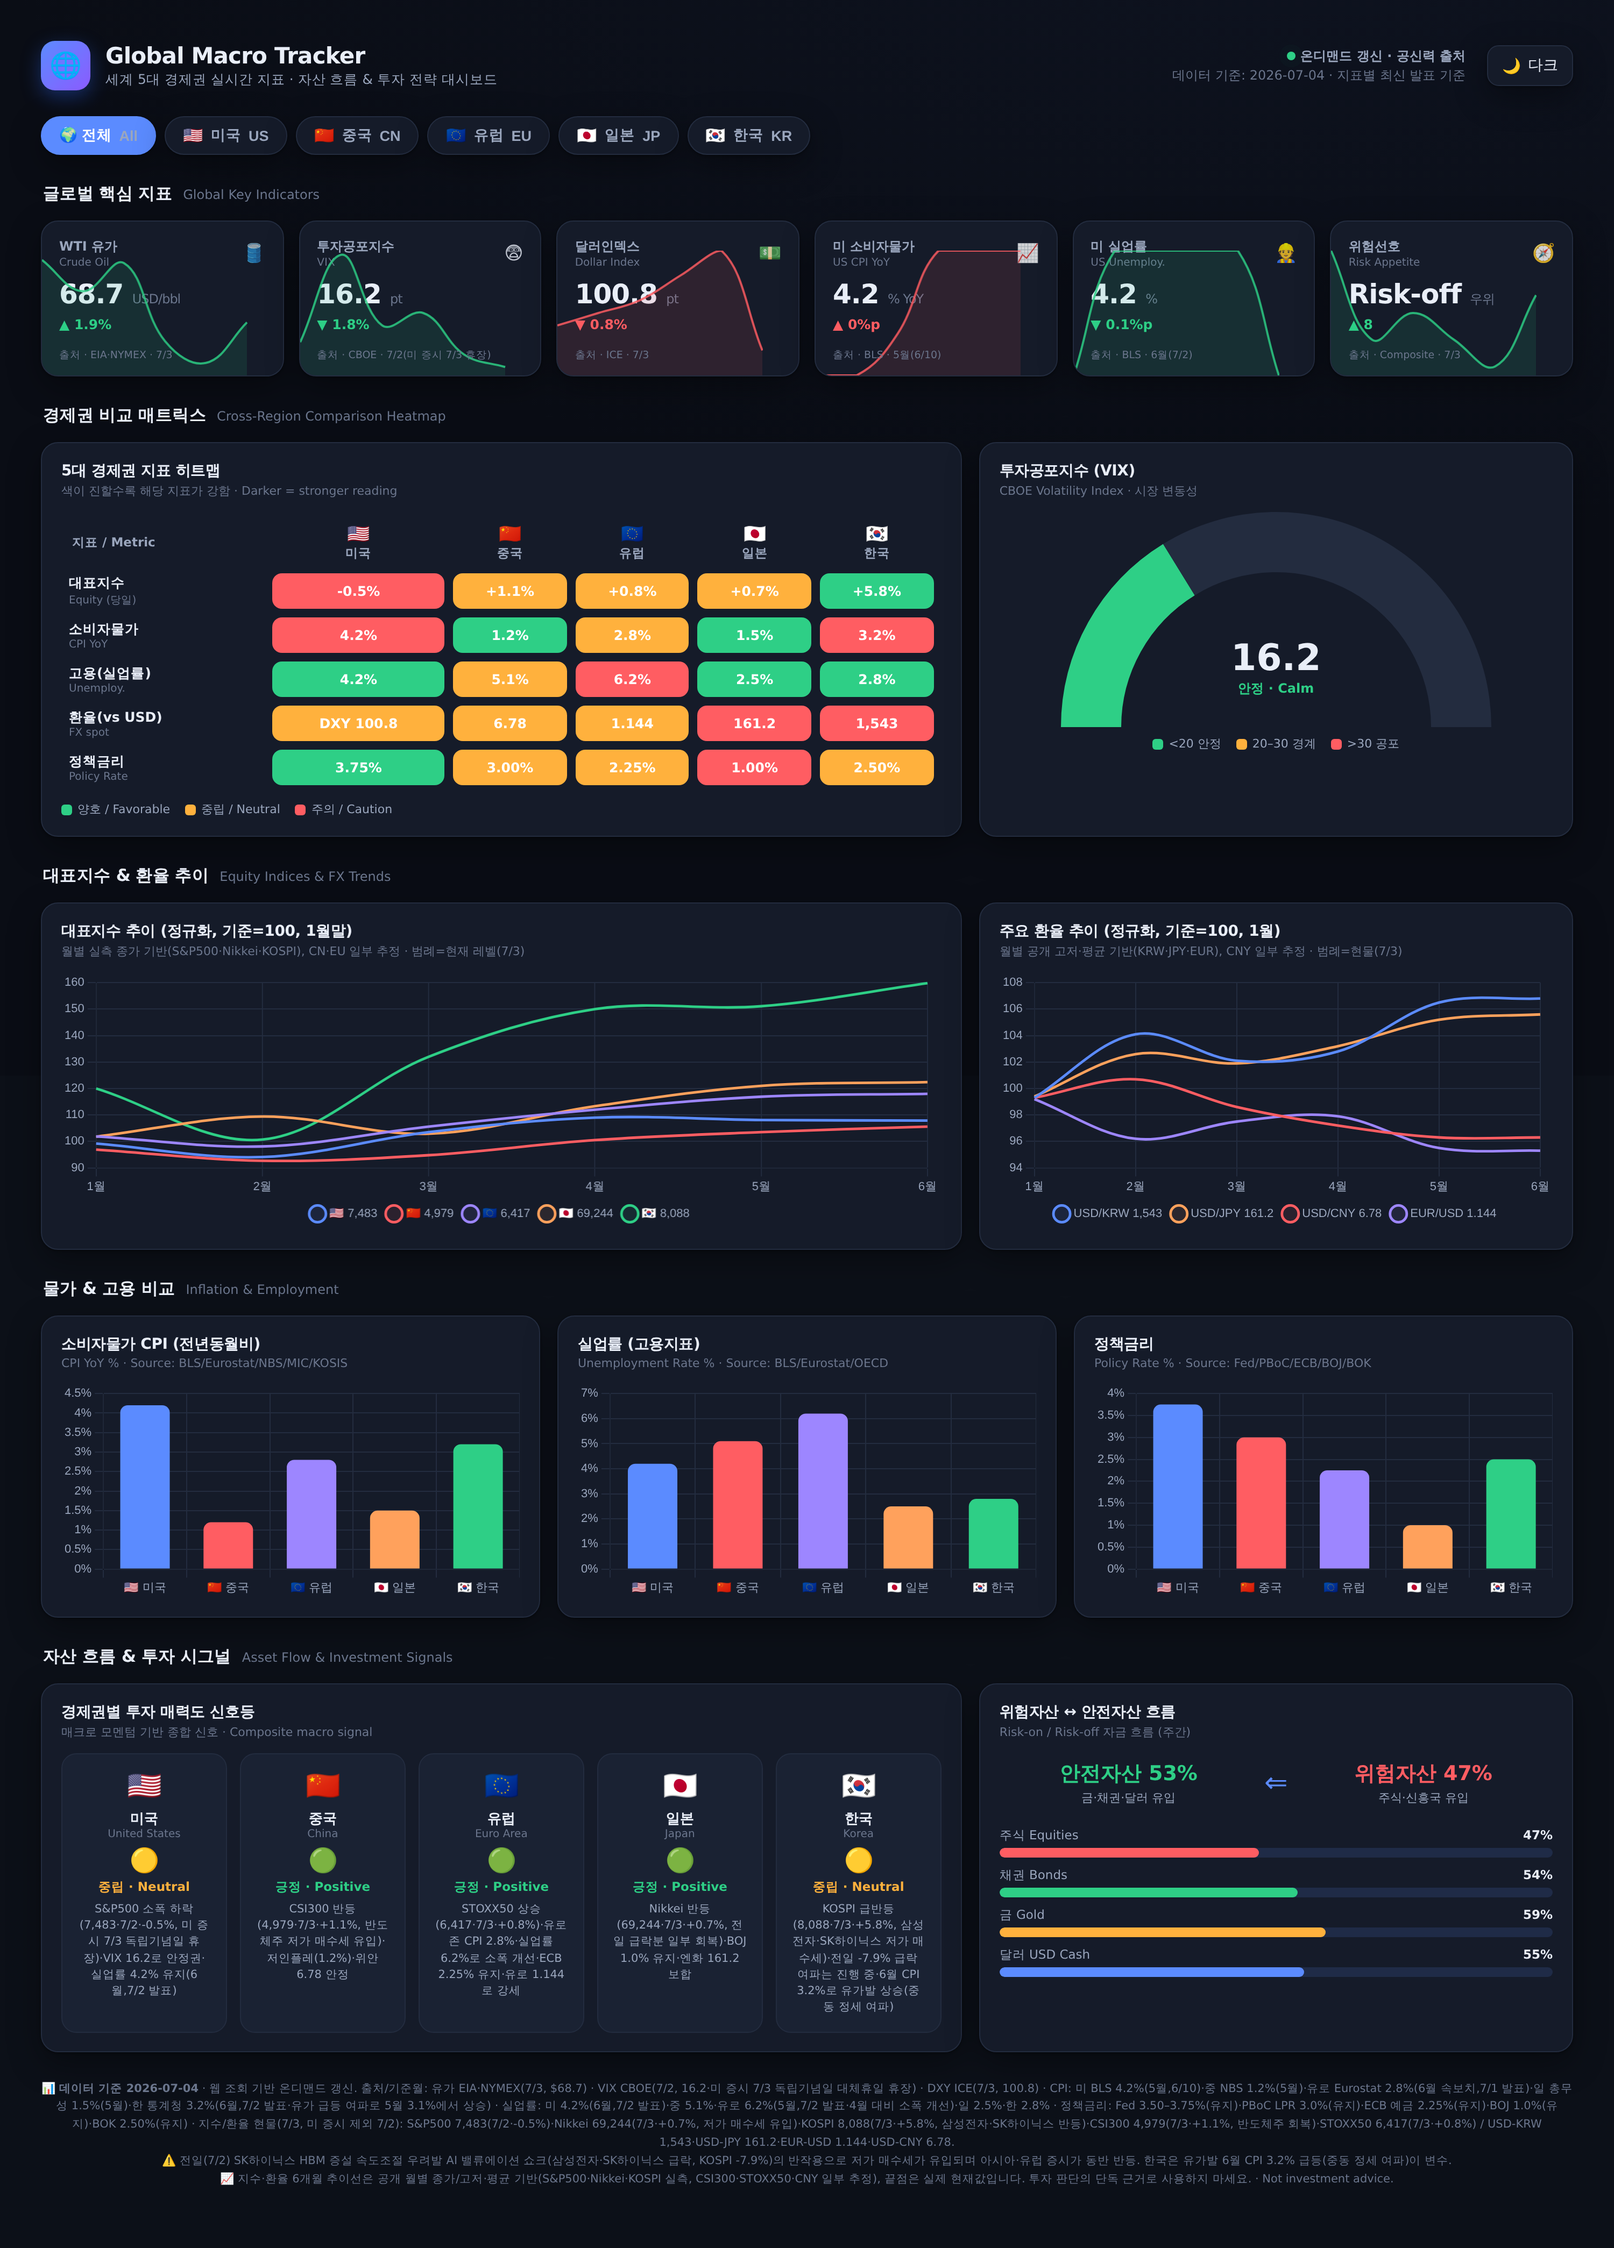
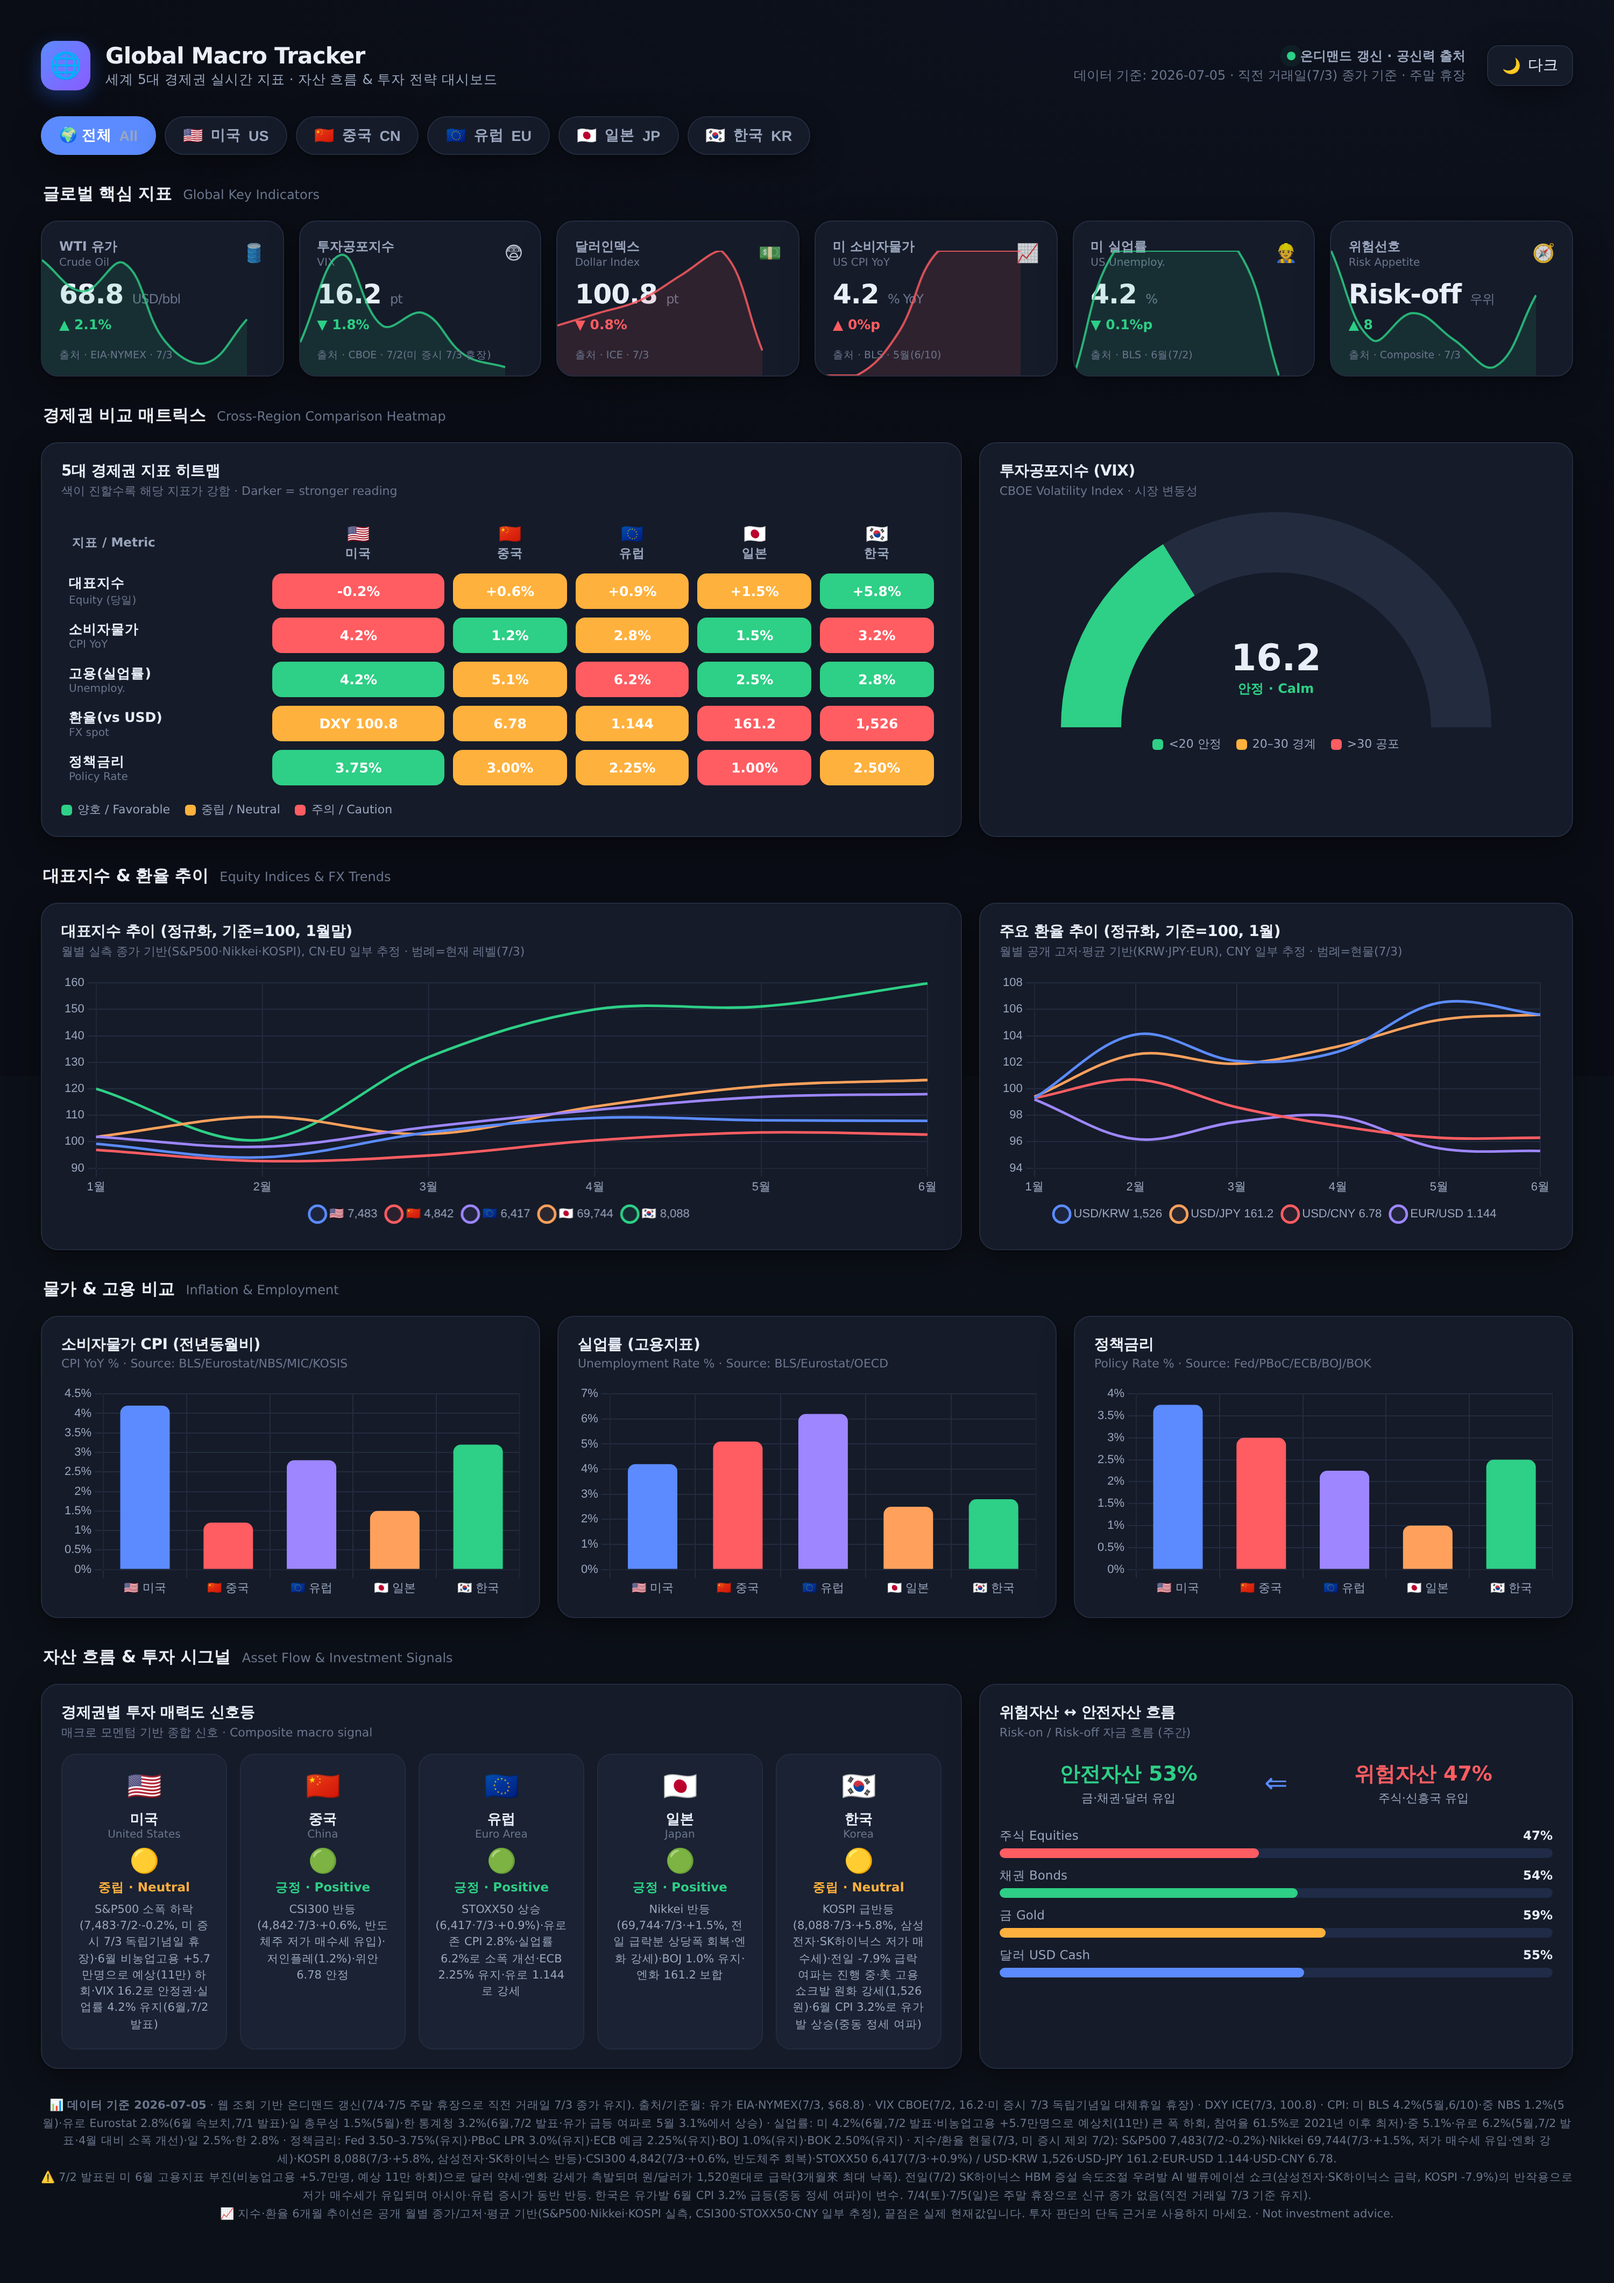
데이터 갱신 2026-07-05: 7/3 종가 수치 재검증(닛케이·CSI300·원달러 정정) 및 미 6월 고용쇼크 반영
- 주말(7/4·7/5) 휴장으로 신규 종가 없어 직전 거래일(7/3) 기준 유지, 공신력 출처 재조회로 수치 정정
- Nikkei225 69,244→69,744(+1.5%), CSI300 4,979→4,842(+0.6%), S&P500 등락 -0.5%→-0.2%
- USD/KRW 1,543→1,526(미 6월 비농업고용 +5.7만명 쇼크로 달러 약세·엔화 강세, 원화 강세 전환)
- 헤더/푸터 기준일 2026-07-05로 갱신, 히트맵·신호등·환율 추이 연동 반영
- renders/mockup-dark.png, mockup-light.png 재렌더링(콘솔 에러 0)

Claude-Session: https://claude.ai/code/session_015VU2ZLPCRfKx8AQtUjswTV

diff --git a/index.html b/index.html
@@ -213,7 +213,7 @@
     <div class="spacer"></div>
     <div class="updated">
       <div><span class="live-dot"></span><b>온디맨드 갱신 · 공신력 출처</b></div>
-      <div id="updated-time">데이터 기준: 2026-07-04 · 지표별 최신 발표 기준</div>
+      <div id="updated-time">데이터 기준: 2026-07-05 · 직전 거래일(7/3) 종가 기준 · 주말 휴장</div>
     </div>
     <button class="theme-toggle" id="themeBtn">🌙 <span id="themeLabel">다크</span></button>
   </header>
@@ -329,13 +329,13 @@
   </div>
 
   <div class="footnote">
-    📊 <b>데이터 기준 2026-07-04</b> · 웹 조회 기반 온디맨드 갱신. 출처/기준월:
-    유가 EIA·NYMEX(7/3, $68.7) · VIX CBOE(7/2, 16.2·미 증시 7/3 독립기념일 대체휴일 휴장) · DXY ICE(7/3, 100.8) ·
+    📊 <b>데이터 기준 2026-07-05</b> · 웹 조회 기반 온디맨드 갱신(7/4·7/5 주말 휴장으로 직전 거래일 7/3 종가 유지). 출처/기준월:
+    유가 EIA·NYMEX(7/3, $68.8) · VIX CBOE(7/2, 16.2·미 증시 7/3 독립기념일 대체휴일 휴장) · DXY ICE(7/3, 100.8) ·
     CPI: 미 BLS 4.2%(5월,6/10)·중 NBS 1.2%(5월)·유로 Eurostat 2.8%(6월 속보치,7/1 발표)·일 총무성 1.5%(5월)·한 통계청 3.2%(6월,7/2 발표·유가 급등 여파로 5월 3.1%에서 상승) ·
-    실업률: 미 4.2%(6월,7/2 발표)·중 5.1%·유로 6.2%(5월,7/2 발표·4월 대비 소폭 개선)·일 2.5%·한 2.8% ·
+    실업률: 미 4.2%(6월,7/2 발표·비농업고용 +5.7만명으로 예상치(11만) 큰 폭 하회, 참여율 61.5%로 2021년 이후 최저)·중 5.1%·유로 6.2%(5월,7/2 발표·4월 대비 소폭 개선)·일 2.5%·한 2.8% ·
     정책금리: Fed 3.50–3.75%(유지)·PBoC LPR 3.0%(유지)·ECB 예금 2.25%(유지)·BOJ 1.0%(유지)·BOK 2.50%(유지) ·
-    지수/환율 현물(7/3, 미 증시 제외 7/2): S&amp;P500 7,483(7/2·-0.5%)·Nikkei 69,244(7/3·+0.7%, 저가 매수세 유입)·KOSPI 8,088(7/3·+5.8%, 삼성전자·SK하이닉스 반등)·CSI300 4,979(7/3·+1.1%, 반도체주 회복)·STOXX50 6,417(7/3·+0.8%) / USD-KRW 1,543·USD-JPY 161.2·EUR-USD 1.144·USD-CNY 6.78.<br/>
-    ⚠ 전일(7/2) SK하이닉스 HBM 증설 속도조절 우려발 AI 밸류에이션 쇼크(삼성전자·SK하이닉스 급락, KOSPI -7.9%)의 반작용으로 저가 매수세가 유입되며 아시아·유럽 증시가 동반 반등. 한국은 유가발 6월 CPI 3.2% 급등(중동 정세 여파)이 변수.<br/>
+    지수/환율 현물(7/3, 미 증시 제외 7/2): S&amp;P500 7,483(7/2·-0.2%)·Nikkei 69,744(7/3·+1.5%, 저가 매수세 유입·엔화 강세)·KOSPI 8,088(7/3·+5.8%, 삼성전자·SK하이닉스 반등)·CSI300 4,842(7/3·+0.6%, 반도체주 회복)·STOXX50 6,417(7/3·+0.9%) / USD-KRW 1,526·USD-JPY 161.2·EUR-USD 1.144·USD-CNY 6.78.<br/>
+    ⚠ 7/2 발표된 미 6월 고용지표 부진(비농업고용 +5.7만명, 예상 11만 하회)으로 달러 약세·엔화 강세가 촉발되며 원/달러가 1,520원대로 급락(3개월來 최대 낙폭). 전일(7/2) SK하이닉스 HBM 증설 속도조절 우려발 AI 밸류에이션 쇼크(삼성전자·SK하이닉스 급락, KOSPI -7.9%)의 반작용으로 저가 매수세가 유입되며 아시아·유럽 증시가 동반 반등. 한국은 유가발 6월 CPI 3.2% 급등(중동 정세 여파)이 변수. 7/4(토)·7/5(일)은 주말 휴장으로 신규 종가 없음(직전 거래일 7/3 기준 유지).<br/>
     📈 지수·환율 6개월 추이선은 공개 월별 종가/고저·평균 기반(S&amp;P500·Nikkei·KOSPI 실측, CSI300·STOXX50·CNY 일부 추정), 끝점은 실제 현재값입니다. 투자 판단의 단독 근거로 사용하지 마세요. · Not investment advice.
   </div>
 </div>
@@ -357,10 +357,10 @@ const REGIONS = {
 };
 
 const DATA = {
-  // 글로벌 KPI 카드 — 2026-07-04 갱신 (WTI·DXY 7/3, VIX·S&P500·美 지표는 7/2·미 증시 7/3 독립기념일 대체휴일 휴장, 아시아·유럽 증시 7/3 반등 반영)
+  // 글로벌 KPI 카드 — 2026-07-05 갱신 (7/4·7/5 주말 휴장으로 신규 종가 없음·직전 거래일 7/3 기준 유지, 수치 재검증)
   kpi: [
-    { id:'wti',  label:'WTI 유가',     en:'Crude Oil',     icon:'🛢', val:'68.7', unit:'USD/bbl', chg:+1.9, src:'EIA·NYMEX · 7/3',
-      spark:[70.7,69.7,70.6,68.1,67.4,68.7] },
+    { id:'wti',  label:'WTI 유가',     en:'Crude Oil',     icon:'🛢', val:'68.8', unit:'USD/bbl', chg:+2.1, src:'EIA·NYMEX · 7/3',
+      spark:[70.7,69.7,70.6,68.1,67.4,68.8] },
     { id:'vix',  label:'투자공포지수',  en:'VIX',           icon:'😨', val:'16.2', unit:'pt', chg:-1.8, src:'CBOE · 7/2(미 증시 7/3 휴장)', invert:true,
       spark:[16.8,18.9,17.2,17.5,16.5,16.2] },
     { id:'dxy',  label:'달러인덱스',    en:'Dollar Index',  icon:'💵', val:'100.8',unit:'pt', chg:-0.8, src:'ICE · 7/3',
@@ -375,34 +375,34 @@ const DATA = {
   // 히트맵: 지표 × 경제권. score 0~100(높을수록 강/양호), d=표시값(실측)
   matrix: [
     { metric:'대표지수', en:'Equity (당일)', fmt:'%',
-      cells:{ US:{d:'-0.5%',s:46}, CN:{d:'+1.1%',s:64}, EU:{d:'+0.8%',s:60}, JP:{d:'+0.7%',s:60}, KR:{d:'+5.8%',s:78} } },
+      cells:{ US:{d:'-0.2%',s:48}, CN:{d:'+0.6%',s:58}, EU:{d:'+0.9%',s:61}, JP:{d:'+1.5%',s:66}, KR:{d:'+5.8%',s:78} } },
     { metric:'소비자물가', en:'CPI YoY', fmt:'',
       cells:{ US:{d:'4.2%',s:35}, CN:{d:'1.2%',s:85}, EU:{d:'2.8%',s:58}, JP:{d:'1.5%',s:78}, KR:{d:'3.2%',s:48} } },
     { metric:'고용(실업률)', en:'Unemploy.', fmt:'',
       cells:{ US:{d:'4.2%',s:72}, CN:{d:'5.1%',s:55}, EU:{d:'6.2%',s:47}, JP:{d:'2.5%',s:92}, KR:{d:'2.8%',s:88} } },
     { metric:'환율(vs USD)', en:'FX spot', fmt:'',
-      cells:{ US:{d:'DXY 100.8',s:60}, CN:{d:'6.78',s:65}, EU:{d:'1.144',s:68}, JP:{d:'161.2',s:30}, KR:{d:'1,543',s:38} } },
+      cells:{ US:{d:'DXY 100.8',s:60}, CN:{d:'6.78',s:65}, EU:{d:'1.144',s:68}, JP:{d:'161.2',s:30}, KR:{d:'1,526',s:44} } },
     { metric:'정책금리', en:'Policy Rate', fmt:'',
       cells:{ US:{d:'3.75%',s:70}, CN:{d:'3.00%',s:62}, EU:{d:'2.25%',s:56}, JP:{d:'1.00%',s:40}, KR:{d:'2.50%',s:58} } },
   ],
-  // 대표지수: 월별 실측 종가 기반 정규화(기준=100, 1월말). 끝값 라벨=실제 현재 레벨(7/3, 미 증시 제외 7/2)
-  // 7/2 SK하이닉스 HBM 증설 속도조절 우려발 AI 밸류에이션 쇼크로 KOSPI -7.9% 급락(삼성전자·SK하이닉스 투매) → 7/3 저가 매수세 유입되며 KOSPI +5.8%·Nikkei +0.7%·CSI300 +1.1%·STOXX50 +0.8% 동반 반등. S&P500은 7/2 -0.5%(미 증시 7/3 독립기념일 휴장)
+  // 대표지수: 월별 실측 종가 기반 정규화(기준=100, 1월말). 끝값 라벨=실제 현재 레벨(7/3, 미 증시 제외 7/2, 7/4·7/5 주말 휴장으로 동일 유지)
+  // 7/2 SK하이닉스 HBM 증설 속도조절 우려발 AI 밸류에이션 쇼크로 KOSPI -7.9% 급락(삼성전자·SK하이닉스 투매) → 7/3 저가 매수세 유입되며 KOSPI +5.8%·Nikkei +1.5%·CSI300 +0.6%·STOXX50 +0.9% 동반 반등. S&P500은 7/2 -0.2%(미 증시 7/3 독립기념일 휴장)
   indices: {
     labels: MONTHS,
-    levels: { US:'7,483', CN:'4,979', EU:'6,417', JP:'69,244', KR:'8,088' },
+    levels: { US:'7,483', CN:'4,842', EU:'6,417', JP:'69,744', KR:'8,088' },
     series: {
-      US:[99.2,94.1,103.5,109.0,108.1,107.9], CN:[96.9,92.7,94.8,100.5,103.5,105.6],
-      EU:[101.9,98.1,105.6,112.0,116.9,118.0], JP:[101.8,109.4,102.9,113.3,121.0,122.4],
+      US:[99.2,94.1,103.5,109.0,108.1,107.9], CN:[96.9,92.7,94.8,100.5,103.5,102.7],
+      EU:[101.9,98.1,105.6,112.0,116.9,118.0], JP:[101.8,109.4,102.9,113.3,121.0,123.3],
       KR:[120.0,100.7,132.0,150.0,151.1,159.8],
     }
   },
   // 환율: 월별 정규화(기준=100, 1월). 끝값 라벨=실제 현물(7/3)
-  // 아시아 증시 반등에 따른 리스크온 전환으로 KRW 강세(1,543), JPY·CNY는 보합권(161.2·6.78), EUR도 소폭 강세(1.144)
+  // 美 6월 고용 쇼크발 달러 약세·엔화 강세로 KRW 강세 전환(1,526), JPY·CNY는 보합권(161.2·6.78), EUR도 소폭 강세(1.144)
   fx: {
     labels: MONTHS,
-    levels: { 'USD/KRW':'1,543', 'USD/JPY':'161.2', 'USD/CNY':'6.78', 'EUR/USD':'1.144' },
+    levels: { 'USD/KRW':'1,526', 'USD/JPY':'161.2', 'USD/CNY':'6.78', 'EUR/USD':'1.144' },
     series: {
-      'USD/KRW':[99.3,104.1,102.1,102.8,106.5,106.8], 'USD/JPY':[99.4,102.6,101.9,103.2,105.2,105.6],
+      'USD/KRW':[99.3,104.1,102.1,102.8,106.5,105.6], 'USD/JPY':[99.4,102.6,101.9,103.2,105.2,105.6],
       'USD/CNY':[99.3,100.7,98.6,97.2,96.3,96.3], 'EUR/USD':[99.2,96.2,97.5,97.9,95.5,95.3],
     }
   },
@@ -415,11 +415,11 @@ const DATA = {
   vix: 16.2,
   // 투자 시그널 신호등 — 데이터 기반 종합 판단
   signals: {
-    US:{ light:'🟡', verdict:'중립',    vEn:'Neutral',    note:'S&P500 소폭 하락(7,483·7/2·-0.5%, 미 증시 7/3 독립기념일 휴장)·VIX 16.2로 안정권·실업률 4.2% 유지(6월,7/2 발표)' },
-    CN:{ light:'🟢', verdict:'긍정',    vEn:'Positive',   note:'CSI300 반등(4,979·7/3·+1.1%, 반도체주 저가 매수세 유입)·저인플레(1.2%)·위안 6.78 안정' },
-    EU:{ light:'🟢', verdict:'긍정',    vEn:'Positive',   note:'STOXX50 상승(6,417·7/3·+0.8%)·유로존 CPI 2.8%·실업률 6.2%로 소폭 개선·ECB 2.25% 유지·유로 1.144로 강세' },
-    JP:{ light:'🟢', verdict:'긍정',    vEn:'Positive',   note:'Nikkei 반등(69,244·7/3·+0.7%, 전일 급락분 일부 회복)·BOJ 1.0% 유지·엔화 161.2 보합' },
-    KR:{ light:'🟡', verdict:'중립',    vEn:'Neutral',    note:'KOSPI 급반등(8,088·7/3·+5.8%, 삼성전자·SK하이닉스 저가 매수세)·전일 -7.9% 급락 여파는 진행 중·6월 CPI 3.2%로 유가발 상승(중동 정세 여파)' },
+    US:{ light:'🟡', verdict:'중립',    vEn:'Neutral',    note:'S&P500 소폭 하락(7,483·7/2·-0.2%, 미 증시 7/3 독립기념일 휴장)·6월 비농업고용 +5.7만명으로 예상(11만) 하회·VIX 16.2로 안정권·실업률 4.2% 유지(6월,7/2 발표)' },
+    CN:{ light:'🟢', verdict:'긍정',    vEn:'Positive',   note:'CSI300 반등(4,842·7/3·+0.6%, 반도체주 저가 매수세 유입)·저인플레(1.2%)·위안 6.78 안정' },
+    EU:{ light:'🟢', verdict:'긍정',    vEn:'Positive',   note:'STOXX50 상승(6,417·7/3·+0.9%)·유로존 CPI 2.8%·실업률 6.2%로 소폭 개선·ECB 2.25% 유지·유로 1.144로 강세' },
+    JP:{ light:'🟢', verdict:'긍정',    vEn:'Positive',   note:'Nikkei 반등(69,744·7/3·+1.5%, 전일 급락분 상당폭 회복·엔화 강세)·BOJ 1.0% 유지·엔화 161.2 보합' },
+    KR:{ light:'🟡', verdict:'중립',    vEn:'Neutral',    note:'KOSPI 급반등(8,088·7/3·+5.8%, 삼성전자·SK하이닉스 저가 매수세)·전일 -7.9% 급락 여파는 진행 중·美 고용 쇼크발 원화 강세(1,526원)·6월 CPI 3.2%로 유가발 상승(중동 정세 여파)' },
   },
   // 자산 흐름 (% 자금흐름 강도) — 전일 반도체 밸류에이션 쇼크 이후 저가 매수세 유입, 리스크온 전환
   flow: { riskOn: 47, riskOff: 53,
